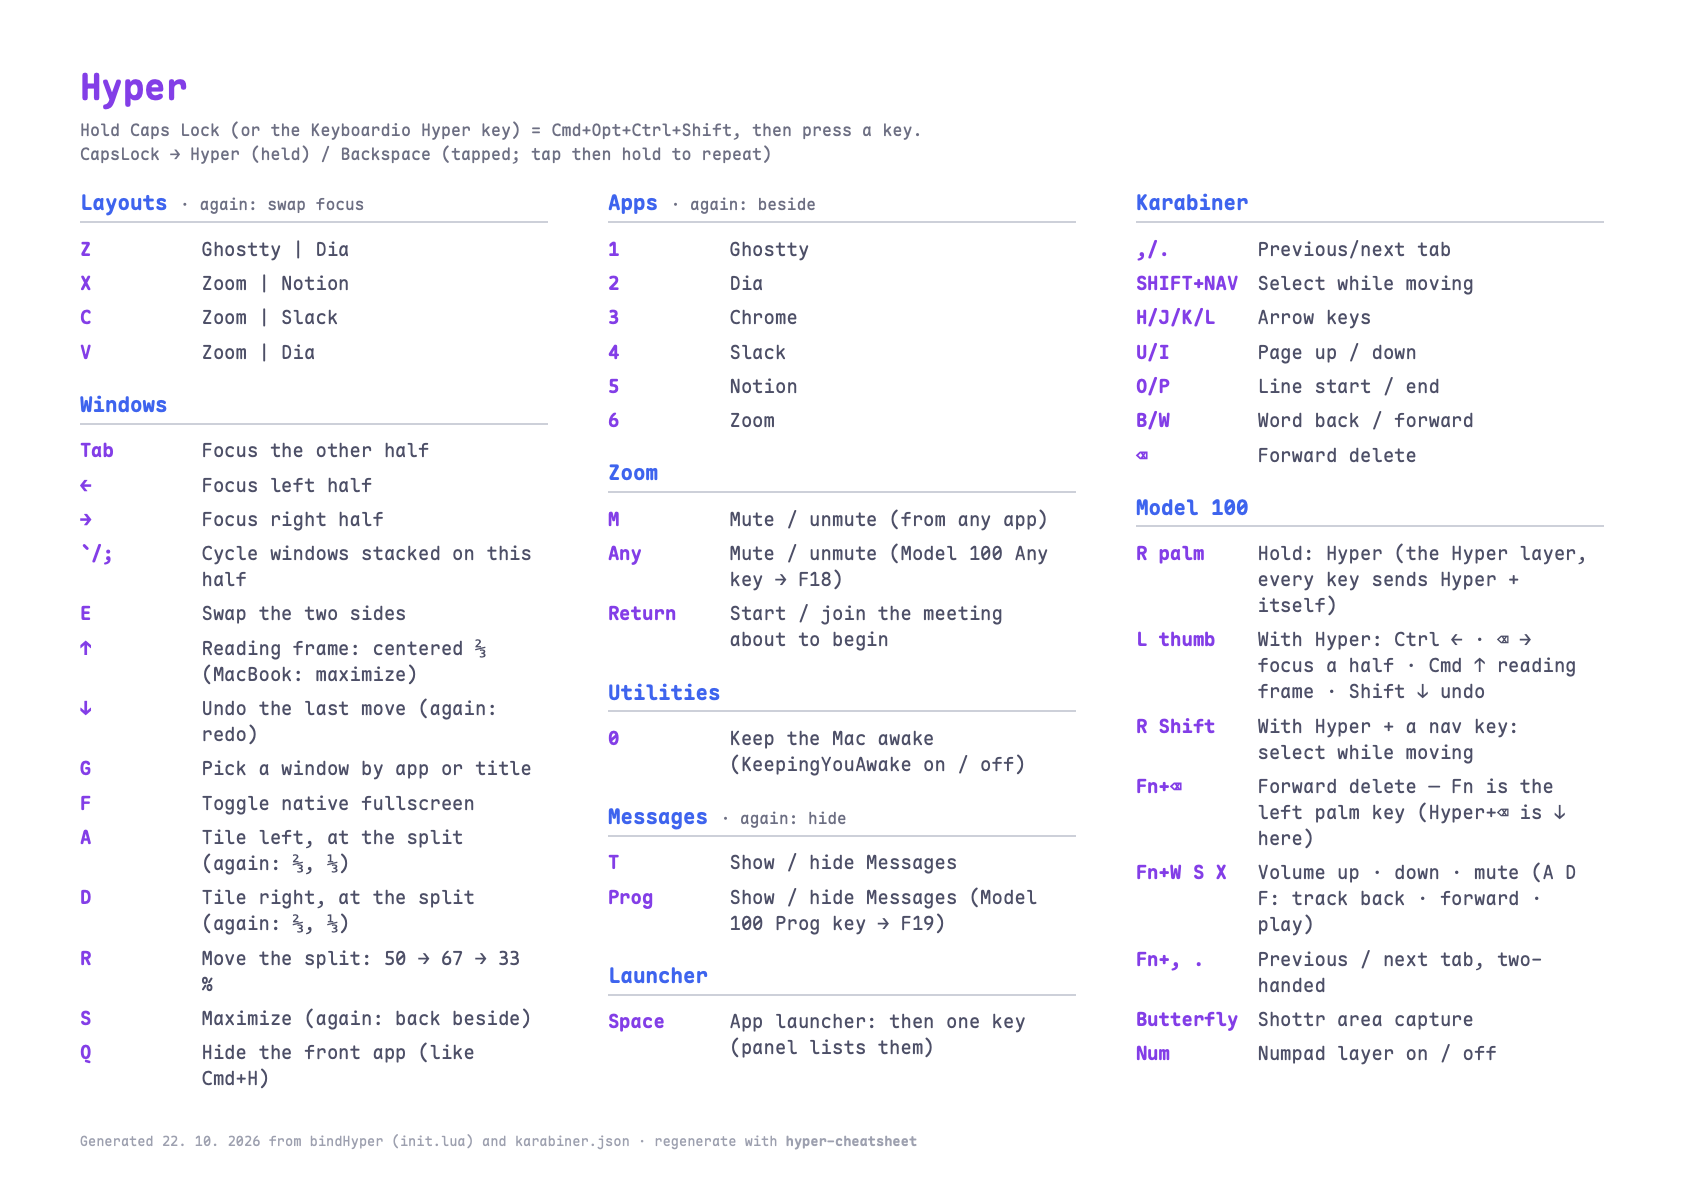
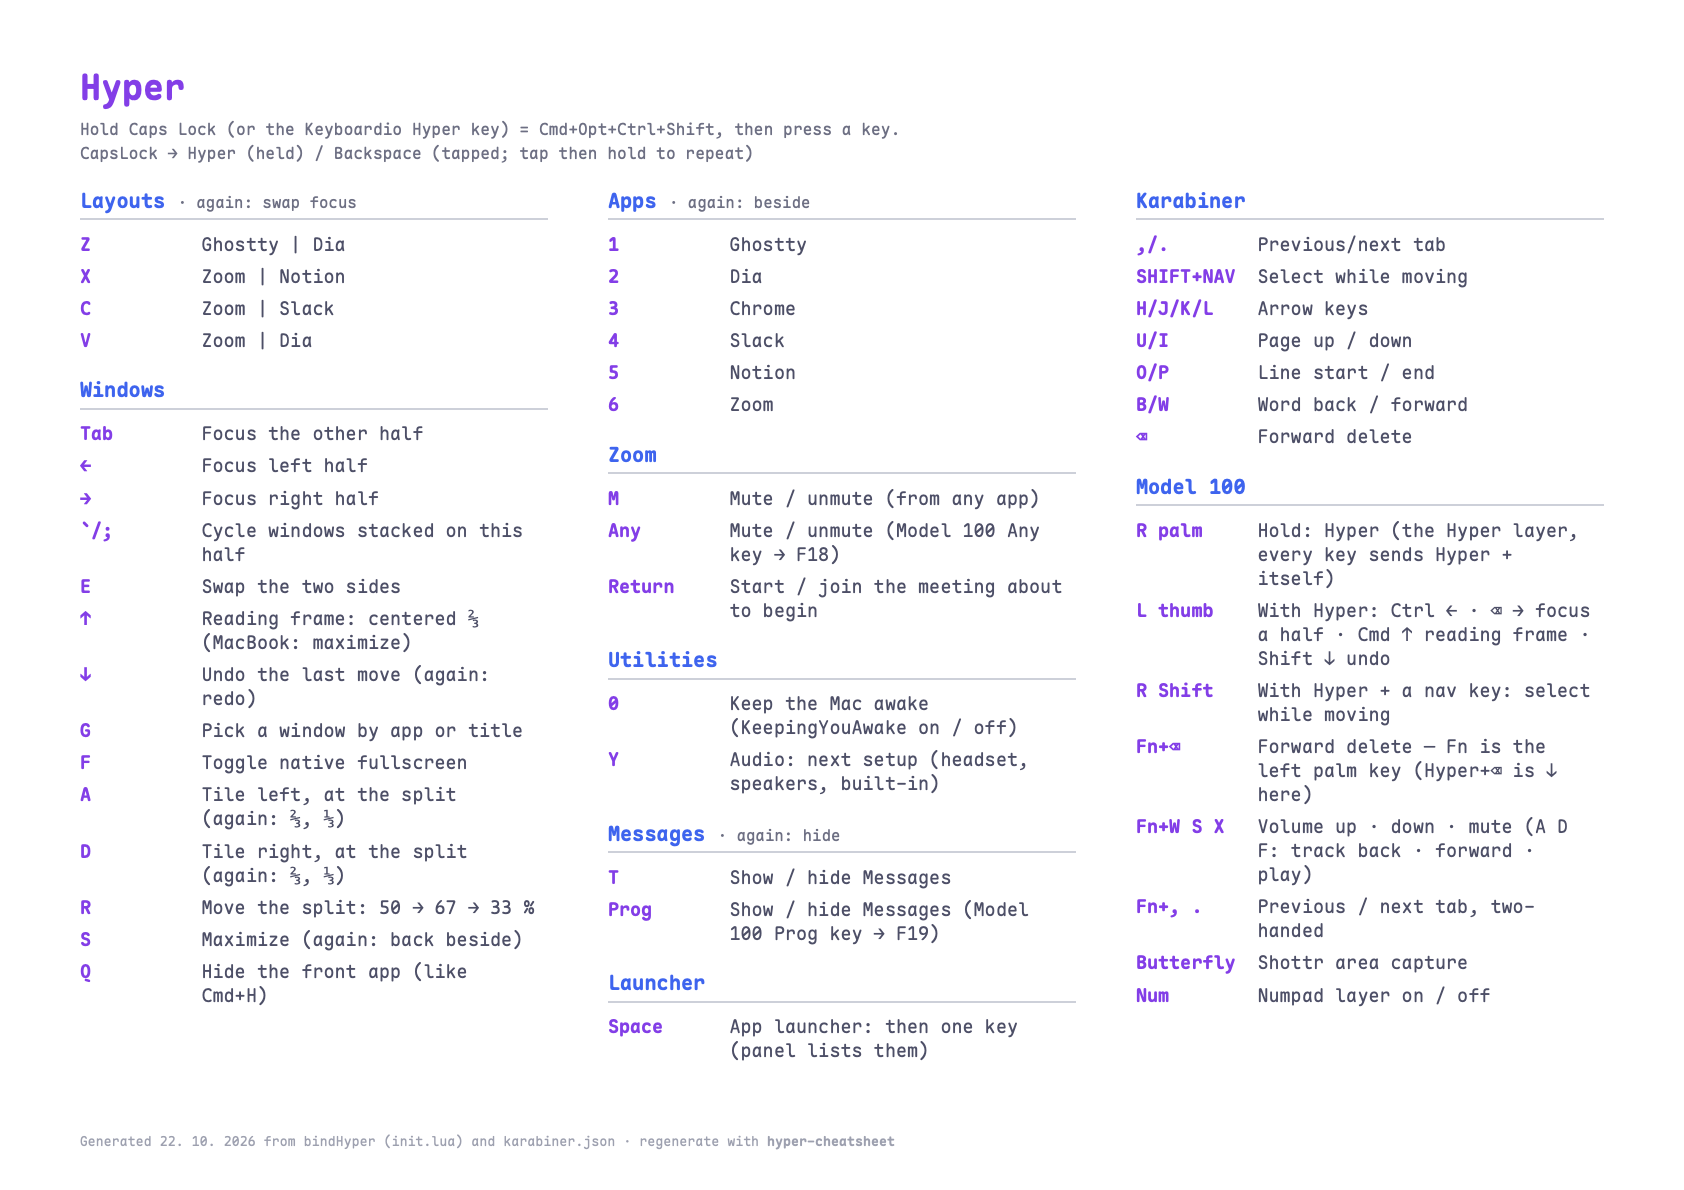
Hammerspoon: audio setups that follow the headset and the dock
Three setups: Headset (Shokz, through its dongle), External (the Dell's
audio out to the desk speakers, PodMic or the camera's mic) and Built-in.
The headset connecting switches to it, docked or not; it disconnecting,
docking or undocking picks External when docked, Built-in otherwise.
Hyper+Y steps through the setups available now.

The dongle shows the same devices whether the headset is linked or not,
so the headset's own Bluetooth pairing with the Mac is the "headset on"
signal; audio still goes through the dongle. The dongle also brings the
output up muted at volume 0 on every connect, which Zoom works around
and Google Meet doesn't, so connecting unmutes it at full volume.

Keyboard backup and cheatsheet images updated for the new Hyper key.

Claude-Session: https://claude.ai/code/session_01Knz54w2BFhTidMjD5WDZnB

diff --git a/GUIDE.md b/GUIDE.md
@@ -1680,6 +1680,48 @@ waits up to 2 s for the process to follow and shows what it found. So clicking
 the cup by hand in between never puts the alert out of step; "(didn't change)"
 means KeepingYouAwake ignored the request.
 
+### Audio setups (Hammerspoon)
+
+| Shortcut | Action |
+|---|---|
+| Hyper + Y | Switch to the next audio setup available right now |
+
+Three setups, each an output and an input:
+
+| Setup | Output | Input | Available |
+|---|---|---|---|
+| 🎧 Headset | Shokz, through the Loop120 dongle (over Bluetooth when the dongle isn't plugged in) | Same | Headset on |
+| 🔊 External | The Dell's audio, out to the Eris speakers | PodMic, or the Insta360's mic until the PodMic is plugged in | Docked |
+| 💻 Built-in | MacBook speakers | MacBook mic | Undocked |
+
+It switches by itself when something changes. The headset turning on
+switches to Headset, docked or not. The headset turning off, docking or
+undocking picks External when docked and Built-in otherwise. Hyper+Y steps
+through the setups available right now, so docked with the headset on it
+flips between Headset and External. A short alert names the setup each time.
+When the headset connects, its output is also unmuted at full volume: the
+dongle brings it up muted at volume 0 every time. Zoom unmutes it for
+itself, but Google Meet and others stay silent. Turn it down with the
+headset's own buttons. Hyper+Y and docking leave the volume alone.
+System sound effects follow the output.
+
+**The Bluetooth pairing is load-bearing.** The dongle can't report whether
+the headset is linked: it shows the same input and output either way. The
+headset is also paired with the Mac over Bluetooth ("OpenComm2 by
+Shokz_II", connected to both at once), and that link appearing is the
+"headset on" signal. Audio still goes through the dongle whenever it's
+plugged in. Unpairing the headset from the Mac ends the automatic switch to
+it; Hyper+Y then never offers Headset either.
+
+Docked means the Dell's audio output is present. Devices arrive one by one
+when you dock, so it acts once the device list has been still for 2 s. Only
+a change in headset or dock switches anything: the dongle reconnecting after
+sleep leaves a setup you picked with Hyper+Y alone. Devices are matched by
+part of their name (`AUDIO` in `init.lua`): "PodMic" is a guess at the new
+mic's name, so check it once it's plugged in. Cameras are each app's own
+setting, not the system's, so Zoom picks the Insta360 or the built-in camera
+by itself.
+
 ### Reloading
 
 Saving any `.lua` file in `config/hammerspoon/` reloads Hammerspoon on its own

diff --git a/README.md b/README.md
@@ -59,7 +59,7 @@ what to watch out for.
 |---|---|---|
 | Hyper key, nav layer | [Karabiner-Elements](https://karabiner-elements.pqrs.org/) — Caps Lock is Hyper when held, Backspace when tapped | `config/karabiner/` |
 | Keyboardio Model 100 | Firmware keymap with a lit Hyper layer — `keyboardio-layers`, `keyboardio-backup` | `config/keyboardio/model100.json` |
-| Windows, apps, cheatsheet | [Hammerspoon](https://www.hammerspoon.org/) — layouts, app focus, Messages, Zoom mute and join, a link router (work → Chrome, rest → Dia); reloads on save | `config/hammerspoon/` |
+| Windows, apps, cheatsheet | [Hammerspoon](https://www.hammerspoon.org/) — layouts, app focus, Messages, Zoom mute and join, audio setups that follow the headset and the dock, a link router (work → Chrome, rest → Dia); reloads on save | `config/hammerspoon/` |
 
 **Editors and Git**
 
@@ -177,7 +177,7 @@ scripts keep it in the repo (quit Chrysalis first — it holds the port):
 - CI lints every push: shellcheck, Python/Lua/JSON/YAML syntax, and that every
   binary a config shells out to has a Brewfile entry. It also runs the
   Hammerspoon tests: the real config under a fake `hs`, window keys pressed
-  against fake windows, and the Hyper layer checked for collisions with
+  against fake windows, audio devices plugged in and out, and the Hyper layer checked for collisions with
   Karabiner and for a GUIDE row per key. A macOS job checks every
   Brewfile formula and cask still exists (and isn't disabled or deprecated),
   links everything into an empty `$HOME`, and validates the Ghostty config.

diff --git a/CLAUDE.md b/CLAUDE.md
@@ -118,7 +118,8 @@ A PostToolUse hook (`.claude/hooks/check-config.sh`) validates each edited file
 - `./drift.sh` — symlinks, packages, required binaries, local files.
 - `lua tests/hammerspoon/run.lua` — the real `init.lua` under a fake `hs`
   (`mock.lua`): window keys pressed against fake windows and screens
-  (`windows_test.lua`), and the Hyper layer checked for collisions, the
+  (`windows_test.lua`), audio setups switched as fake devices come and go
+  (`audio_test.lua`), and the Hyper layer checked for collisions, the
   cheatsheet description form and a GUIDE.md row per key
   (`bindings_test.lua`). Run it after changing Hammerspoon, `karabiner.json`
   or GUIDE.md; the hook doesn't, as it never executes repo code. A
